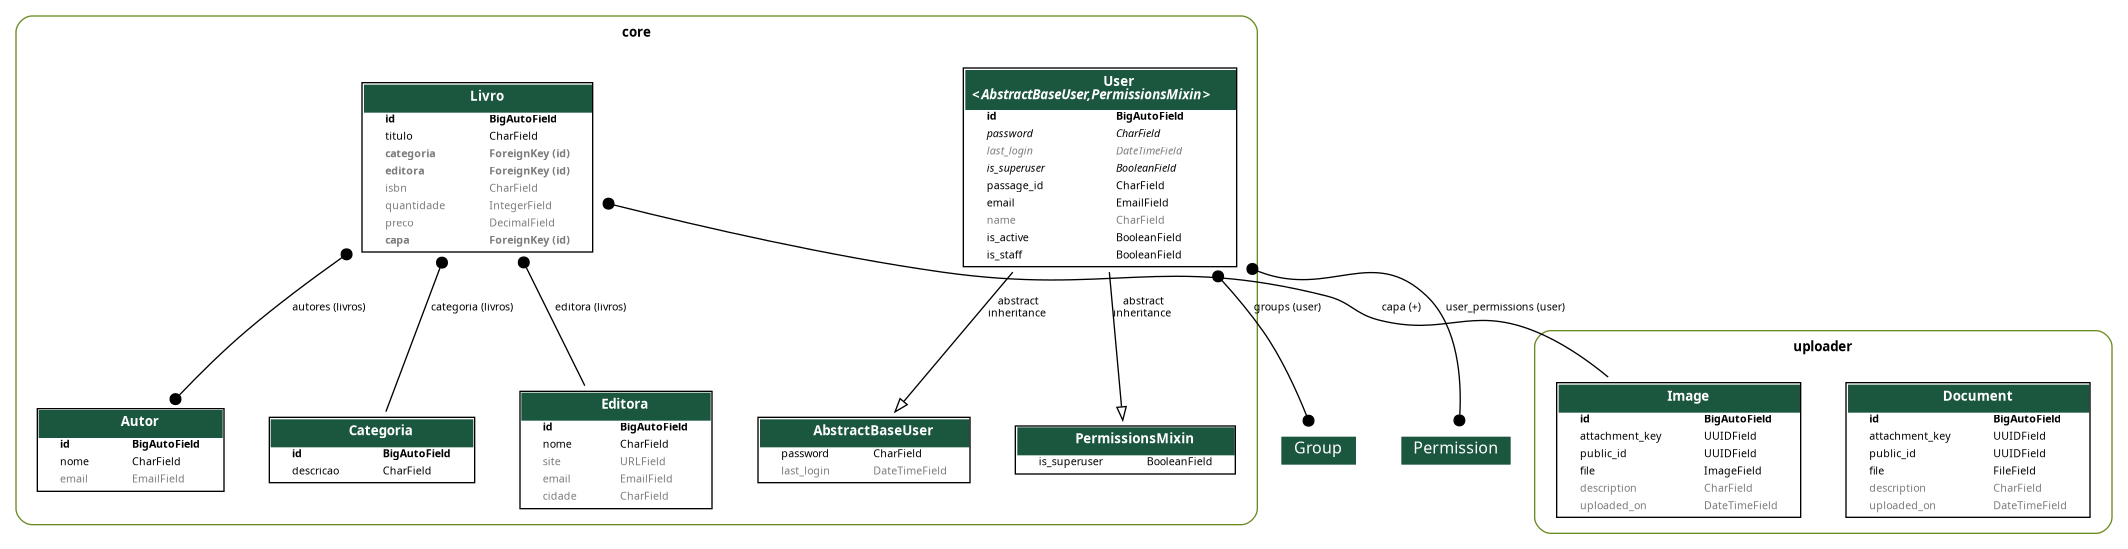
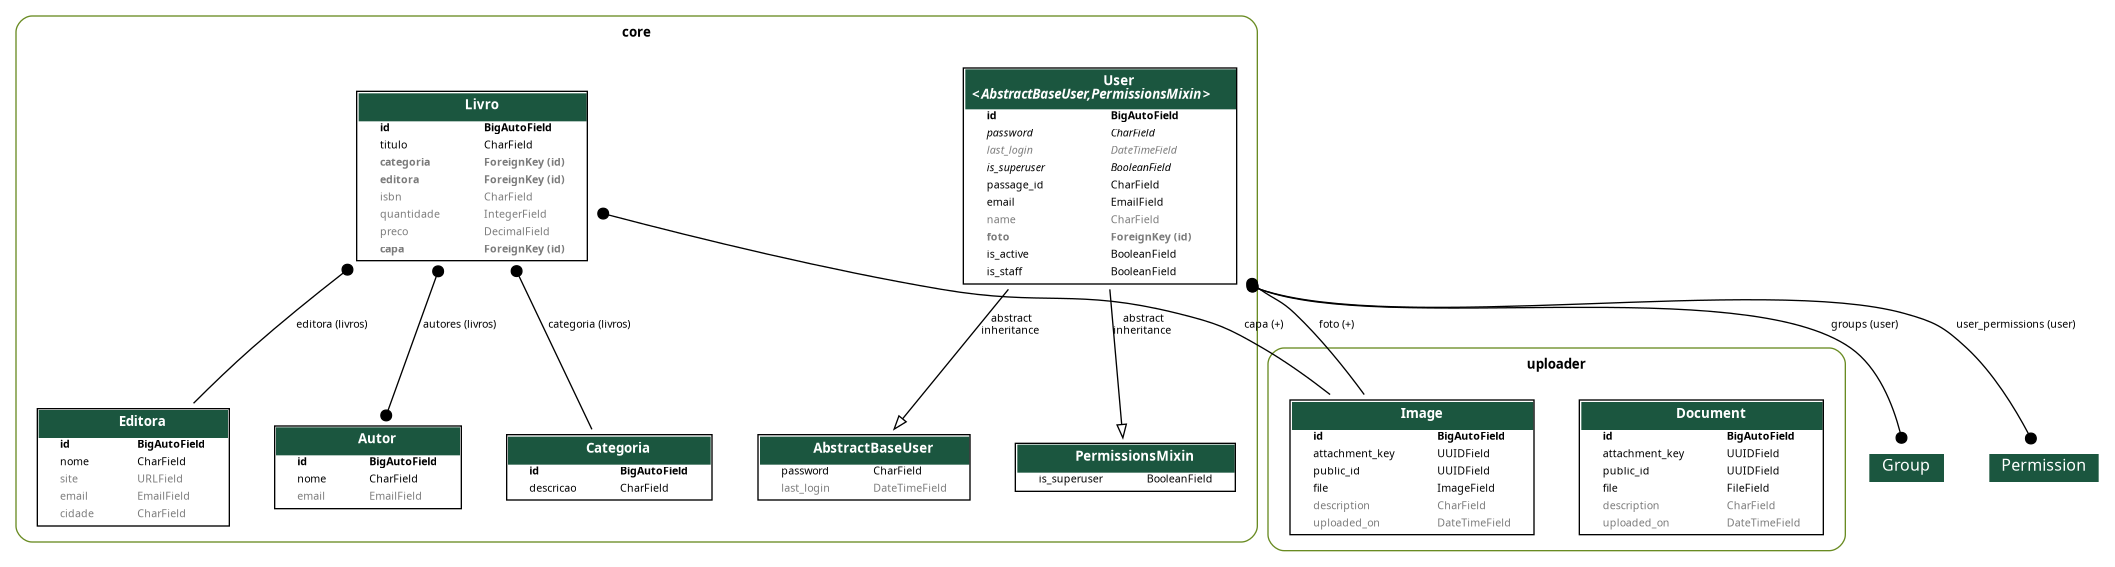
feat: inclusão da foto de perfil no usuário

diff --git a/core/models/user.py b/core/models/user.py
@@ -9,6 +9,7 @@ from django.contrib.auth.models import (
 )
 from django.db import models
 from django.utils.translation import gettext_lazy as _
+from uploader.models import Image
 
 
 class UserManager(BaseUserManager):
@@ -43,6 +44,14 @@ class User(AbstractBaseUser, PermissionsMixin):
     passage_id = models.CharField(max_length=255, unique=True, verbose_name=_('passage_id'), help_text=_('Passage ID'))
     email = models.EmailField(max_length=255, unique=True, verbose_name=_('email'), help_text=_('Email'))
     name = models.CharField(max_length=255, blank=True, null=True, verbose_name=_('name'), help_text=_('Username'))
+    foto = models.ForeignKey(
+        Image,
+        related_name="+",
+        on_delete=models.SET_NULL,
+        null=True,
+        blank=True,
+        default=None,
+    )
     is_active = models.BooleanField(
         default=True, verbose_name=_('Usuário está ativo'), help_text=_('Indica que este usuário está ativo.')
     )

diff --git a/core/serializers/user.py b/core/serializers/user.py
@@ -1,10 +1,23 @@
-from rest_framework.serializers import ModelSerializer
+from rest_framework.serializers import ModelSerializer, SlugRelatedField
 
 from core.models import User
+from uploader.models import Image
+from uploader.serializers import ImageSerializer
 
 
 class UserSerializer(ModelSerializer):
+    foto_attachment_key = SlugRelatedField(
+        source="foto",
+        queryset=Image.objects.all(),
+        slug_field="attachment_key",
+        required=False,
+        write_only=True,
+    )
+    foto = ImageSerializer(
+        required=False,
+        read_only=True
+    )
+
     class Meta:
         model = User
-        fields = '__all__'
-        depth = 1
+        fields = "__all__"

diff --git a/core/migrations/0013_user_foto.py b/core/migrations/0013_user_foto.py
@@ -1,0 +1,20 @@
+# Generated by Django 5.2.1 on 2025-06-03 11:40
+
+import django.db.models.deletion
+from django.db import migrations, models
+
+
+class Migration(migrations.Migration):
+
+    dependencies = [
+        ('core', '0012_editora_cidade_editora_email'),
+        ('uploader', '0001_initial'),
+    ]
+
+    operations = [
+        migrations.AddField(
+            model_name='user',
+            name='foto',
+            field=models.ForeignKey(blank=True, default=None, null=True, on_delete=django.db.models.deletion.SET_NULL, related_name='+', to='uploader.image'),
+        ),
+    ]

diff --git a/core/admin.py b/core/admin.py
@@ -8,7 +8,7 @@ from django.utils.translation import gettext_lazy as _
 
 from core.models import Autor, Categoria, Editora, Livro, User
 
-
+@admin.register(User)
 class UserAdmin(BaseUserAdmin):
     """Define the admin pages for users."""
 
@@ -16,7 +16,7 @@ class UserAdmin(BaseUserAdmin):
     list_display = ['email', 'name']
     fieldsets = (
         (None, {'fields': ('email', 'password')}),
-        (_('Personal Info'), {'fields': ('name', 'passage_id')}),
+        (_('Personal Info'), {'fields': ('name', 'passage_id', 'foto')}),
         (
             _('Permissions'),
             {
